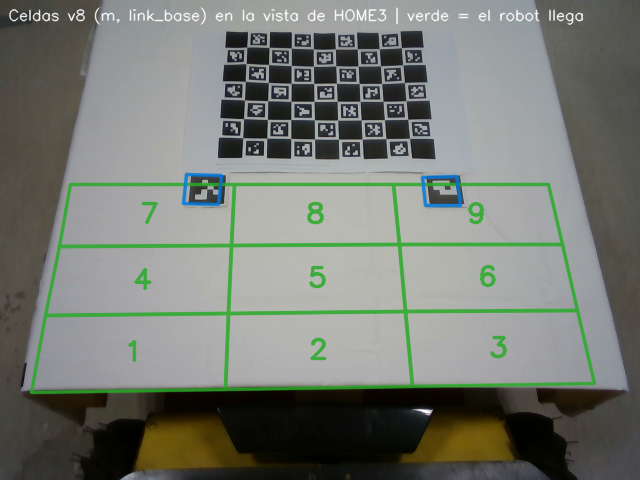
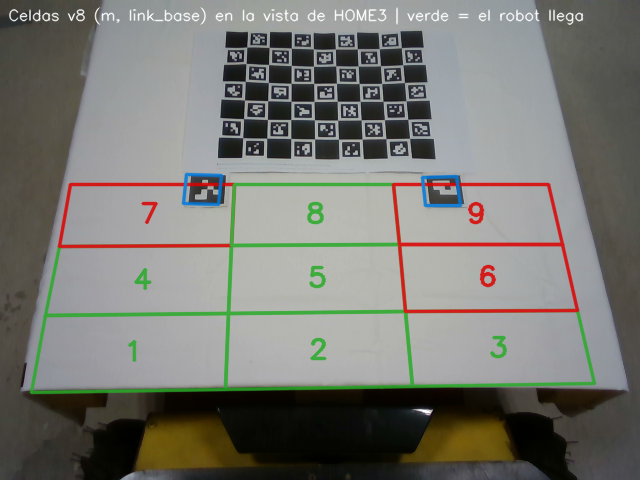
feat(v8): end view aligned with the tool (user decision) and per-demo placement hints
In all 5 demos of the session the user turned the camera at the end so
the blades point up in the image. Asked, they chose to keep that: the
end view is always the same, and the robot turns its wrist towards the
tool.

- Protocol (run_v8_session.sh): at the end, turn the camera until the
  blades point UP in the image. Recording banner: "final: herramienta
  centrada y HOJAS hacia ARRIBA".
- Reach check uses the blade-aligned camera in all six orientations
  (check_camera_yaws_deg). With oblique views the robot reaches all 54
  cell x yaw combinations: 49 complete and 5 partial (cells 6 and 9 at
  -90/-45, cell 7 at +90: centre reachable, one corner not).
- make_v8_cells.py also stores reach per orientation (by_yaw) in
  v8_cells_home3.yaml. vo_schedule.placement_hint(cell, yaw) uses that
  demo's orientation, so the guide and voice say only what applies
  (e.g. "encima" or "final en diagonal ~15") instead of the worst of
  the six.

26 related tests pass; install/ rebuilt.

Changed region(s): [[0.5938, 0.375, 0.9062, 0.6562], [0.0938, 0.375, 0.375, 0.5312]]

diff --git a/visuomotor_data_collection/visuomotor_data_collection/vo_collector_node.py b/visuomotor_data_collection/visuomotor_data_collection/vo_collector_node.py
@@ -778,7 +778,7 @@ class VOCollectorNode(Node):
                     # (las fuentes de OpenCV son ASCII)
                     target = {"cells_m": self.cells_m, "table_xy": self.table_xy, "cell": e.cell, "yaw_deg": e.yaw_deg,
                               "label": f"COLOCAR #{e.index}: celda {e.cell} | hojas {yaw_words(e.yaw_deg)}"
-                                       + (f" | {hint}" if (hint := placement_hint(self.cells_info.get(e.cell))) else "")}
+                                       + (f" | {hint}" if (hint := placement_hint(self.cells_info.get(e.cell), e.yaw_deg)) else "")}
                 elif e is not None and e.cell in self.cells_px:
                     target = {"polygon_px": self.cells_px[e.cell], "yaw_deg": e.yaw_deg,
                               "label": f"#{e.index}: celda {e.cell}, hojas {yaw_words(e.yaw_deg).replace('°', ' grados')}"}
@@ -791,7 +791,7 @@ class VOCollectorNode(Node):
             cv2.rectangle(out, (w // 2 - bw, h // 2 - bh), (w // 2 + bw, h // 2 + bh), (0, 200, 255), 2, cv2.LINE_AA)
             cv2.drawMarker(out, (w // 2, h // 2), (0, 200, 255), cv2.MARKER_CROSS, 24, 2, cv2.LINE_AA)
             txt = "QUIETA: reiniciando odometria" if state == ARMING else (
-                "REC  HOLD" if self.hold else "REC  llegar con la herramienta centrada en el recuadro")
+                "REC  HOLD" if self.hold else "REC  final: herramienta centrada y HOJAS hacia ARRIBA")
             cv2.rectangle(out, (0, 0), (w, 26), (0, 0, 170) if state == RECORDING else (0, 120, 200), -1)
             cv2.putText(out, txt, (8, 18), cv2.FONT_HERSHEY_SIMPLEX, 0.5, (255, 255, 255), 1, cv2.LINE_AA)
             self._publish_guide(out, stamp)
@@ -818,7 +818,7 @@ class VOCollectorNode(Node):
         if e is None:
             self.get_logger().info(f"[PROGRAMA] Completo: {len(self.sched_done)} demos hechas.")
         else:
-            hint = placement_hint(self.cells_info.get(e.cell))
+            hint = placement_hint(self.cells_info.get(e.cell), e.yaw_deg)
             self.get_logger().info(f"[PROGRAMA] Siguiente {e.describe()} ({len(self.sched_done)}/{len(self.schedule)} "
                                    f"hechas). [N] saltar." + (f" Ojo: {hint}." if hint else ""))
 

diff --git a/tools/hardware/make_v8_cells.py b/tools/hardware/make_v8_cells.py
@@ -183,6 +183,12 @@ def main(argv=None) -> int:
     # con las hojas)
     model = ReachModel(a.bridge, a.alignment, a.calib, zt, cfg["check_heights_m"], cfg.get("check_camera_yaws_deg", [0.0]),
                        cfg.get("check_max_tilt_deg", 0.0), cfg.get("check_tilt_step_deg", 15.0))
+    # Con la cámara alineada con las hojas, cada demo tiene UNA orientación: el alcance y la pista (diagonal, hacia el
+    # centro) se guardan también por orientación, para que el recolector diga solo lo de esa demo.
+    cam_yaws = [float(y) for y in cfg.get("check_camera_yaws_deg", [0.0])]
+    by_yaw_models = ({y: ReachModel(a.bridge, a.alignment, a.calib, zt, cfg["check_heights_m"], [y],
+                                    cfg.get("check_max_tilt_deg", 0.0), cfg.get("check_tilt_step_deg", 15.0))
+                      for y in cam_yaws} if len(cam_yaws) > 1 else {})
     cal = json.loads(Path(a.calib).read_text())
     K = np.array(cal["K"]).reshape(3, 3)
     h3 = json.loads(Path(a.home3_tcp).read_text())
@@ -214,6 +220,13 @@ def main(argv=None) -> int:
                           "polygon_home3_px": np.round(poly, 1).tolist(), "reachable_fraction": round(frac, 3),
                           "center_reachable_fraction": round(det["center"], 3), "tilt_needed_deg": det["tilt_deg"],
                           "max_clamp_m": round(max_clamp, 4)}
+            if by_yaw_models:
+                cells[cid]["by_yaw"] = {}
+                for y, my in by_yaw_models.items():
+                    dy = my.cell_detail(x_lo, x_hi, y_lo, y_hi)
+                    cells[cid]["by_yaw"][int(round(y))] = {"reachable_fraction": round(dy["worst"], 3),
+                                                           "center_reachable_fraction": round(dy["center"], 3),
+                                                           "tilt_needed_deg": dy["tilt_deg"]}
             color = (40, 170, 40) if frac == 1.0 else (0, 0, 220)
             cv2.polylines(over, [poly.astype(np.int32)], True, color, 2, cv2.LINE_AA)
             c = poly.mean(0).astype(int)

diff --git a/visuomotor_data_collection/visuomotor_data_collection/vo_schedule.py b/visuomotor_data_collection/visuomotor_data_collection/vo_schedule.py
@@ -67,13 +67,18 @@ def cells_from_edges(x_edges: Sequence[float], y_edges: Sequence[float]) -> Dict
     return out
 
 
-def placement_hint(cell_info: Optional[dict]) -> str:
-    """Pista para la vista final de una celda, desde ``v8_cells_home3.yaml`` (``make_v8_cells.py``):
+def placement_hint(cell_info: Optional[dict], yaw_deg: Optional[float] = None) -> str:
+    """Pista para la vista final de una celda, desde ``v8_cells_home3.yaml`` (``make_v8_cells.py``). Con ``yaw_deg`` y
+    ``by_yaw`` en la celda (cámara alineada con las hojas), usa el alcance de ESA orientación:
     * ``tilt_needed_deg`` > 0: el robot solo llega mirando EN DIAGONAL desde más cerca de la base;
     * ``reachable_fraction`` < 1 con el centro alcanzable: no llega a alguna esquina, herramienta hacia el centro.
     Vacía si basta con la cámara justo encima de cualquier punto de la celda."""
     if not cell_info:
         return ""
+    by = cell_info.get("by_yaw") if yaw_deg is not None else None
+    if isinstance(by, dict):
+        y = int(round(float(yaw_deg)))
+        cell_info = by.get(y, by.get(str(y), cell_info))
     out = []
     if float(cell_info.get("reachable_fraction", 1.0)) < 1.0 and float(cell_info.get("center_reachable_fraction", 1.0)) >= 1.0:
         out.append("herramienta hacia el centro de la celda")

diff --git a/tests/test_vo_schedule.py b/tests/test_vo_schedule.py
@@ -84,6 +84,12 @@ class BalancedScheduleTest(unittest.TestCase):
         h = placement_hint({"reachable_fraction": 0.5, "center_reachable_fraction": 1.0, "tilt_needed_deg": 45.0})
         self.assertIn("centro de la celda", h)
         self.assertIn("45", h)
+        by = {"reachable_fraction": 0.5, "center_reachable_fraction": 1.0, "tilt_needed_deg": 45.0,
+              "by_yaw": {0: {"reachable_fraction": 1.0, "tilt_needed_deg": 0.0}, 180: {"reachable_fraction": 1.0,
+                                                                                  "tilt_needed_deg": 15.0}}}
+        self.assertEqual(placement_hint(by, 0.0), "")                       # esa orientación: justo encima
+        self.assertIn("15", placement_hint(by, 180.0))
+        self.assertIn("45", placement_hint(by))                             # sin orientación: el peor caso
 
     def test_done_only_counts_same_schedule(self):
         attrs = [{"schedule": {"index": 0, "cell": 1}},                          # programa v1, sin schedule_id

diff --git a/context.md b/context.md
@@ -716,6 +716,11 @@ Durante las primeras evaluaciones en inferencia con un modelo entrenado con ~60 
       `estimate_start_poses.py` las omiten. Primera: `episode_13`, porque el final dejaba la herramienta cortada.
       Vigilante de la sesión: `tools/hardware/v8_watch.sh`; ojo: `pkill -f` con su nombre también mata al shell que
       lo invoca.
+      Orientación final de la cámara (decisión del usuario, 2026-11-25): ALINEADA con la herramienta, con las hojas
+      hacia arriba en la imagen. Es lo que hizo naturalmente en las primeras demos; la vista final queda siempre igual
+      y el robot gira la muñeca hacia la herramienta. Con la vista en diagonal, el robot llega a las 54 combinaciones
+      de celda y ángulo: 49 completas y 5 parciales (celdas 6 y 9 con −90/−45, celda 7 con +90). `make_v8_cells.py`
+      guarda el alcance por orientación (`by_yaw`), y la pista de cada demo usa la de SU ángulo.
       - `make_v8_cells.py` comprueba que el robot llega a la vista final (25–30 cm, cámara hacia abajo, 4
         orientaciones): las celdas 1–6 y 8 al 100 %; la 7 y la 9 fallan solo en una esquina (herramienta hacia el
         centro).
